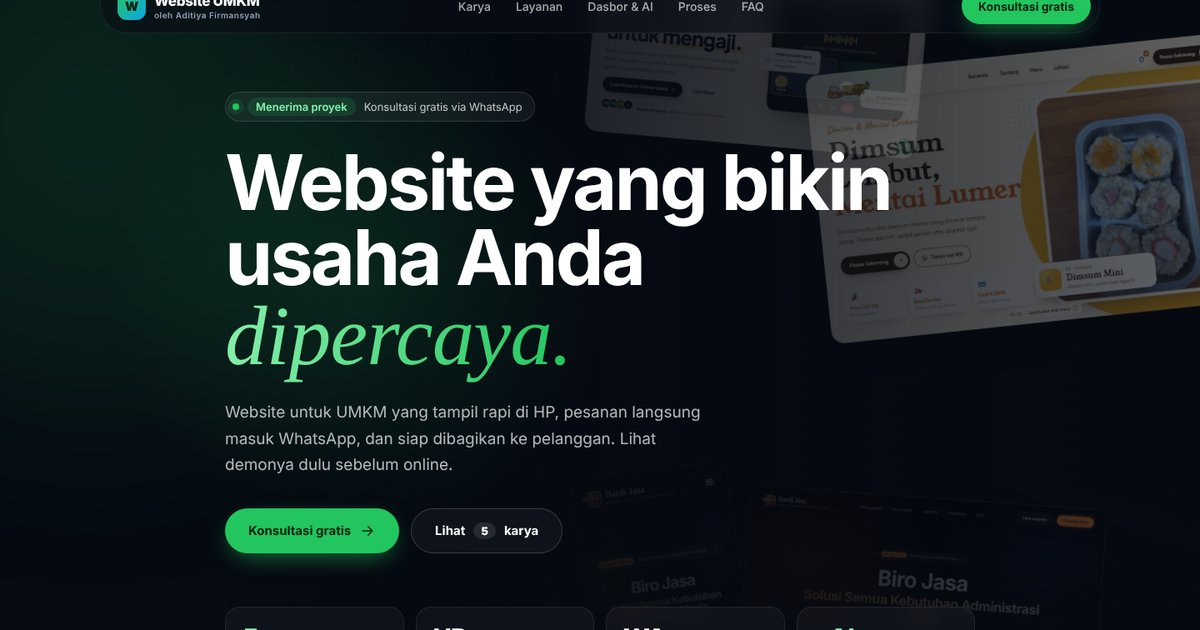
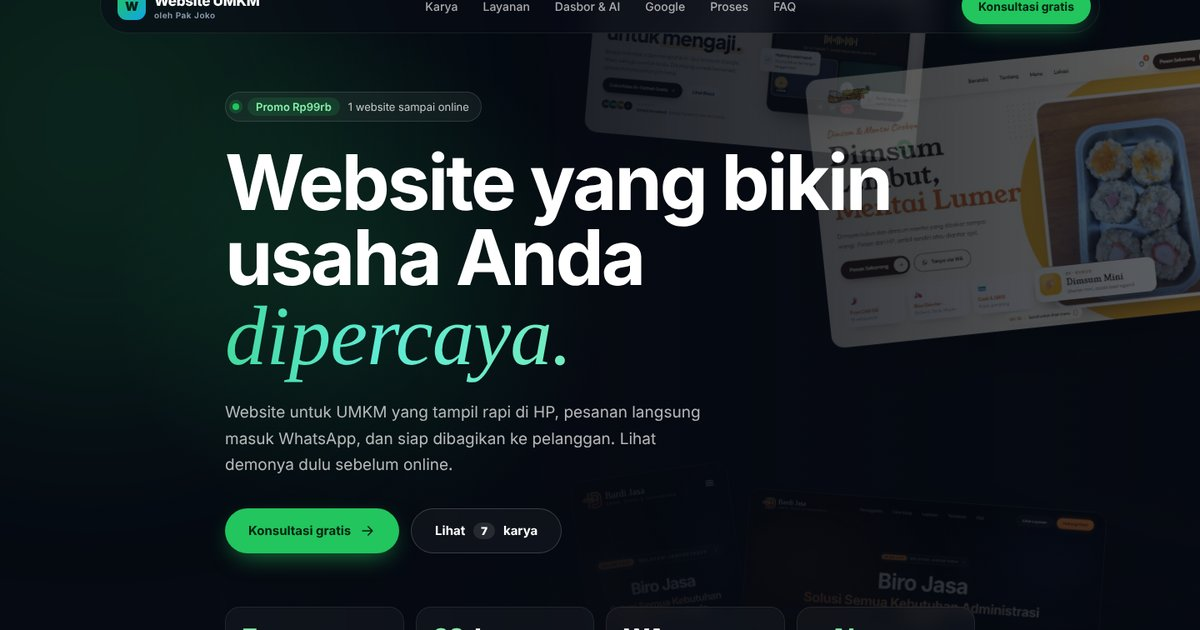
Website UMKM versi Pak Joko (WA 0857-7218-1913)
Claude-Session: https://claude.ai/code/session_01TfCf2MXUTGyZL5RXAfqK74

diff --git a/index.html b/index.html
@@ -6,11 +6,11 @@
 <title>Website UMKM – Jasa Pembuatan Website untuk UMKM</title>
 <meta name="description" content="Website UMKM: jasa pembuatan website untuk usaha kecil. Tampil rapi di HP, pesanan langsung ke WhatsApp. Bisa ditambah dasbor AI dan otomatisasi AI.">
 <meta property="og:type" content="website">
-<meta property="og:url" content="https://website-umkm-aditiya.vercel.app/">
+<meta property="og:url" content="https://website-umkm-joko.vercel.app/">
 <meta property="og:site_name" content="Website UMKM">
 <meta property="og:title" content="Website UMKM – Website yang bikin usaha Anda dipercaya">
 <meta property="og:description" content="Promo Rp99rb: 1 website UMKM sampai online. Tampil rapi di HP, pesanan langsung ke WhatsApp. Lihat demonya dulu.">
-<meta property="og:image" content="https://website-umkm-aditiya.vercel.app/img/og.jpg">
+<meta property="og:image" content="https://website-umkm-joko.vercel.app/img/og.jpg">
 <meta property="og:image:width" content="1200">
 <meta property="og:image:height" content="630">
 <meta name="twitter:card" content="summary_large_image">
@@ -269,7 +269,7 @@ footer{border-top:1px solid var(--line);padding:70px 0 0;position:relative;overf
 <div class="progress" id="prog"></div>
 
 <nav class="top" id="nav">
-  <a href="#" class="logo"><i>W</i><span>Website UMKM<small>oleh Aditiya Firmansyah</small></span></a>
+  <a href="#" class="logo"><i>W</i><span>Website UMKM<small>oleh Pak Joko</small></span></a>
   <div class="navl"><a href="#karya">Karya</a><a href="#layanan">Layanan</a><a href="#ai">Dasbor &amp; AI</a><a href="#google">Google</a><a href="#proses">Proses</a><a href="#faq">FAQ</a></div>
   <a class="btn btn-acc" href="#kontak">Konsultasi gratis</a>
 </nav>
@@ -518,7 +518,7 @@ footer{border-top:1px solid var(--line);padding:70px 0 0;position:relative;overf
         <span class="kick">Kontak</span>
         <h2 class="h2">Ceritakan usaha Anda, kami siapkan <span class="serif">demonya.</span></h2>
         <p class="lead">Isi formulir di samping, pesan Anda langsung terbuka di WhatsApp. Atau chat langsung:</p>
-        <a class="wa-card" href="https://wa.me/6285772181913"><span class="wi"><svg class="ico" viewBox="0 0 24 24"><path d="M4 20l1.3-4A8 8 0 1 1 8 18.7z"/><path d="M9 9.5c0 3 2.5 5.5 5.5 5.5l1-1.5-2-1-1 .8a4 4 0 0 1-2-2l.8-1-1-2z"/></svg></span><span><b>0857-7218-1913</b><small>WhatsApp · Aditiya Firmansyah</small></span></a>
+        <a class="wa-card" href="https://wa.me/6285772181913"><span class="wi"><svg class="ico" viewBox="0 0 24 24"><path d="M4 20l1.3-4A8 8 0 1 1 8 18.7z"/><path d="M9 9.5c0 3 2.5 5.5 5.5 5.5l1-1.5-2-1-1 .8a4 4 0 0 1-2-2l.8-1-1-2z"/></svg></span><span><b>0857-7218-1913</b><small>WhatsApp · Pak Joko</small></span></a>
       </div>
       <form id="form" onsubmit="return false">
         <div class="f2">
@@ -539,12 +539,12 @@ footer{border-top:1px solid var(--line);padding:70px 0 0;position:relative;overf
 <footer>
   <div class="wrap">
     <div class="fg">
-      <div><a href="#" class="logo"><i>W</i><span>Website UMKM<small>oleh Aditiya Firmansyah</small></span></a><p class="about">Jasa pembuatan website untuk UMKM, dengan tambahan dasbor dan otomatisasi AI untuk usaha yang ingin naik kelas.</p></div>
+      <div><a href="#" class="logo"><i>W</i><span>Website UMKM<small>oleh Pak Joko</small></span></a><p class="about">Jasa pembuatan website untuk UMKM, dengan tambahan dasbor dan otomatisasi AI untuk usaha yang ingin naik kelas.</p></div>
       <div><h5>Layanan</h5><ul><li><a href="#layanan">Website UMKM</a></li><li><a href="#ai">Dasbor AI</a></li><li><a href="#ai">Otomatisasi AI</a></li><li><a href="#layanan">Aplikasi kasir</a></li></ul></div>
       <div><h5>Studio</h5><ul><li><a href="#karya">Portofolio</a></li><li><a href="#proses">Proses kerja</a></li><li><a href="#faq">FAQ</a></li></ul></div>
       <div><h5>Kontak</h5><ul><li><a href="https://wa.me/6285772181913">WhatsApp</a></li><li><a href="#kontak">Konsultasi gratis</a></li></ul></div>
     </div>
-    <div class="fbot"><span>© 2026 Website UMKM · Aditiya Firmansyah</span><span>Lihat demo dulu, baru online.</span></div>
+    <div class="fbot"><span>© 2026 Website UMKM · Pak Joko</span><span>Lihat demo dulu, baru online.</span></div>
   </div>
   <div class="huge" aria-hidden="true">WEBSITE UMKM</div>
 </footer>
